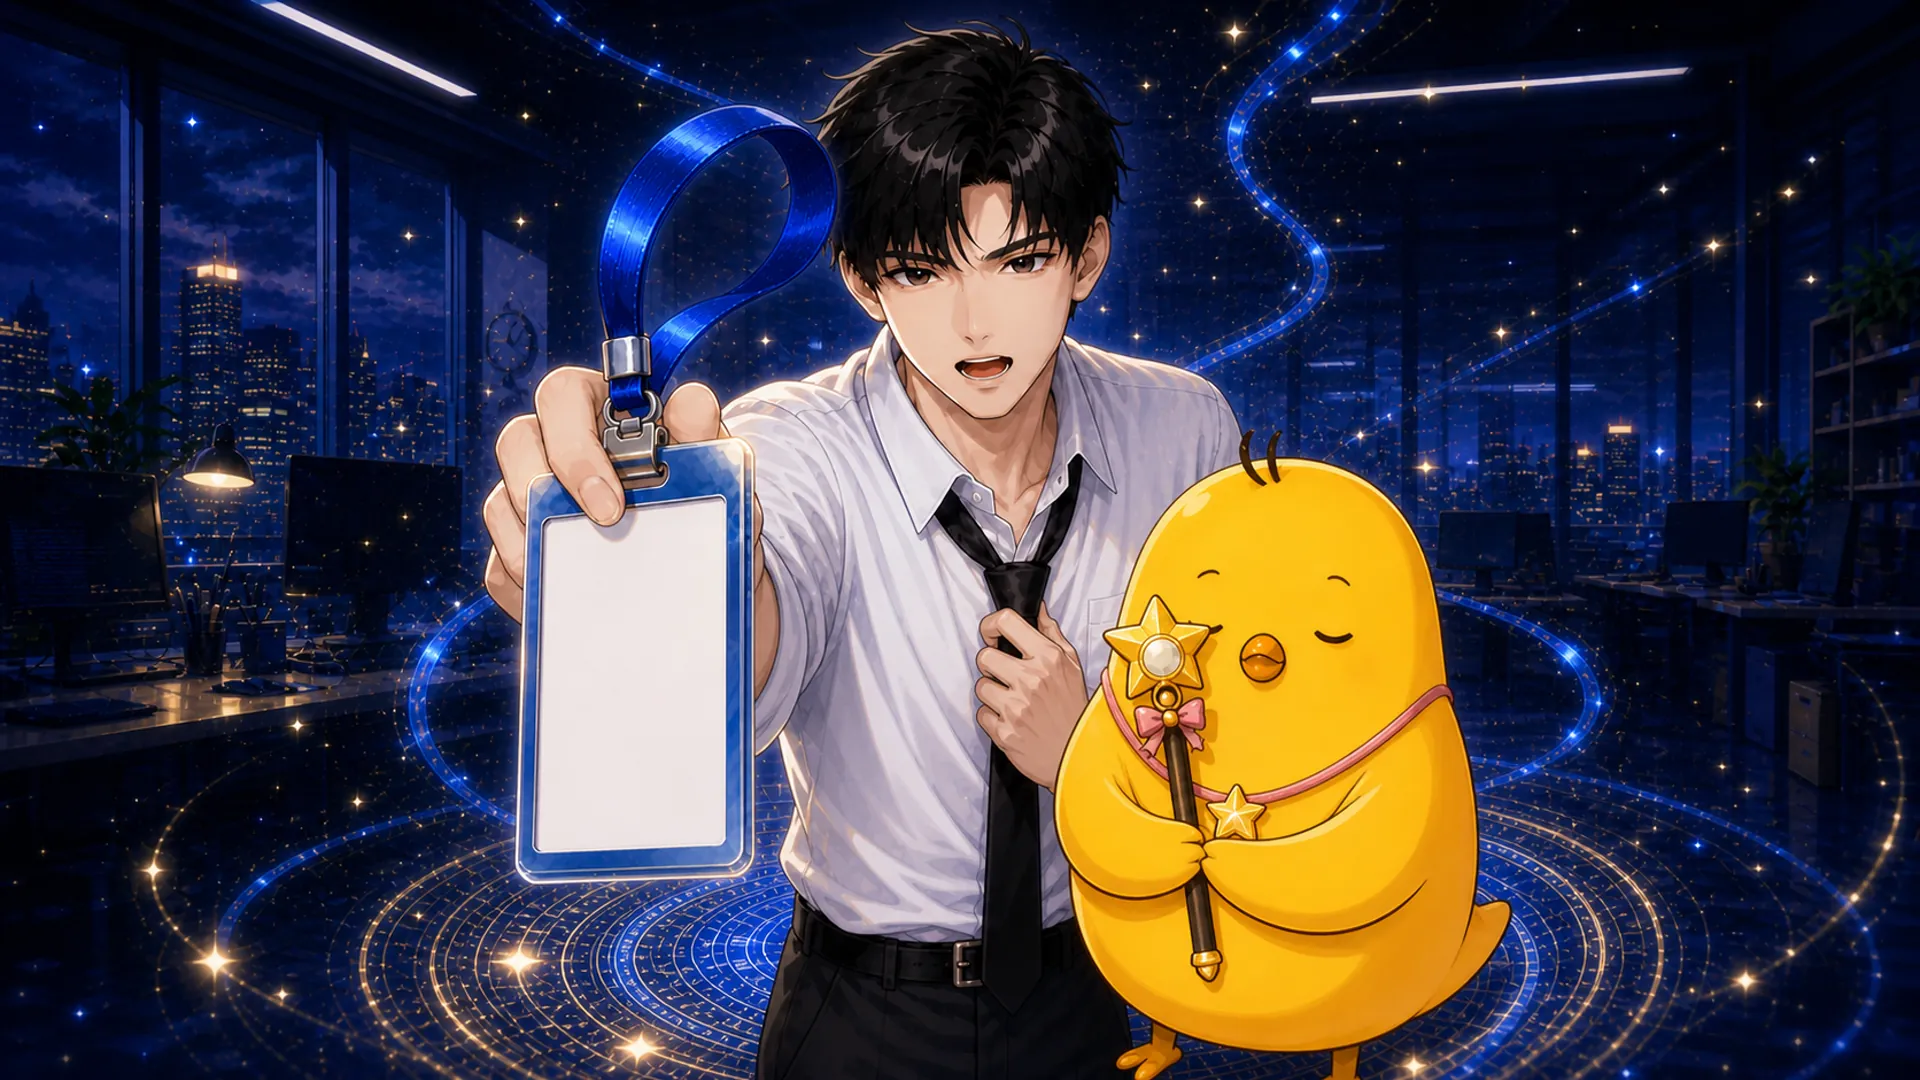
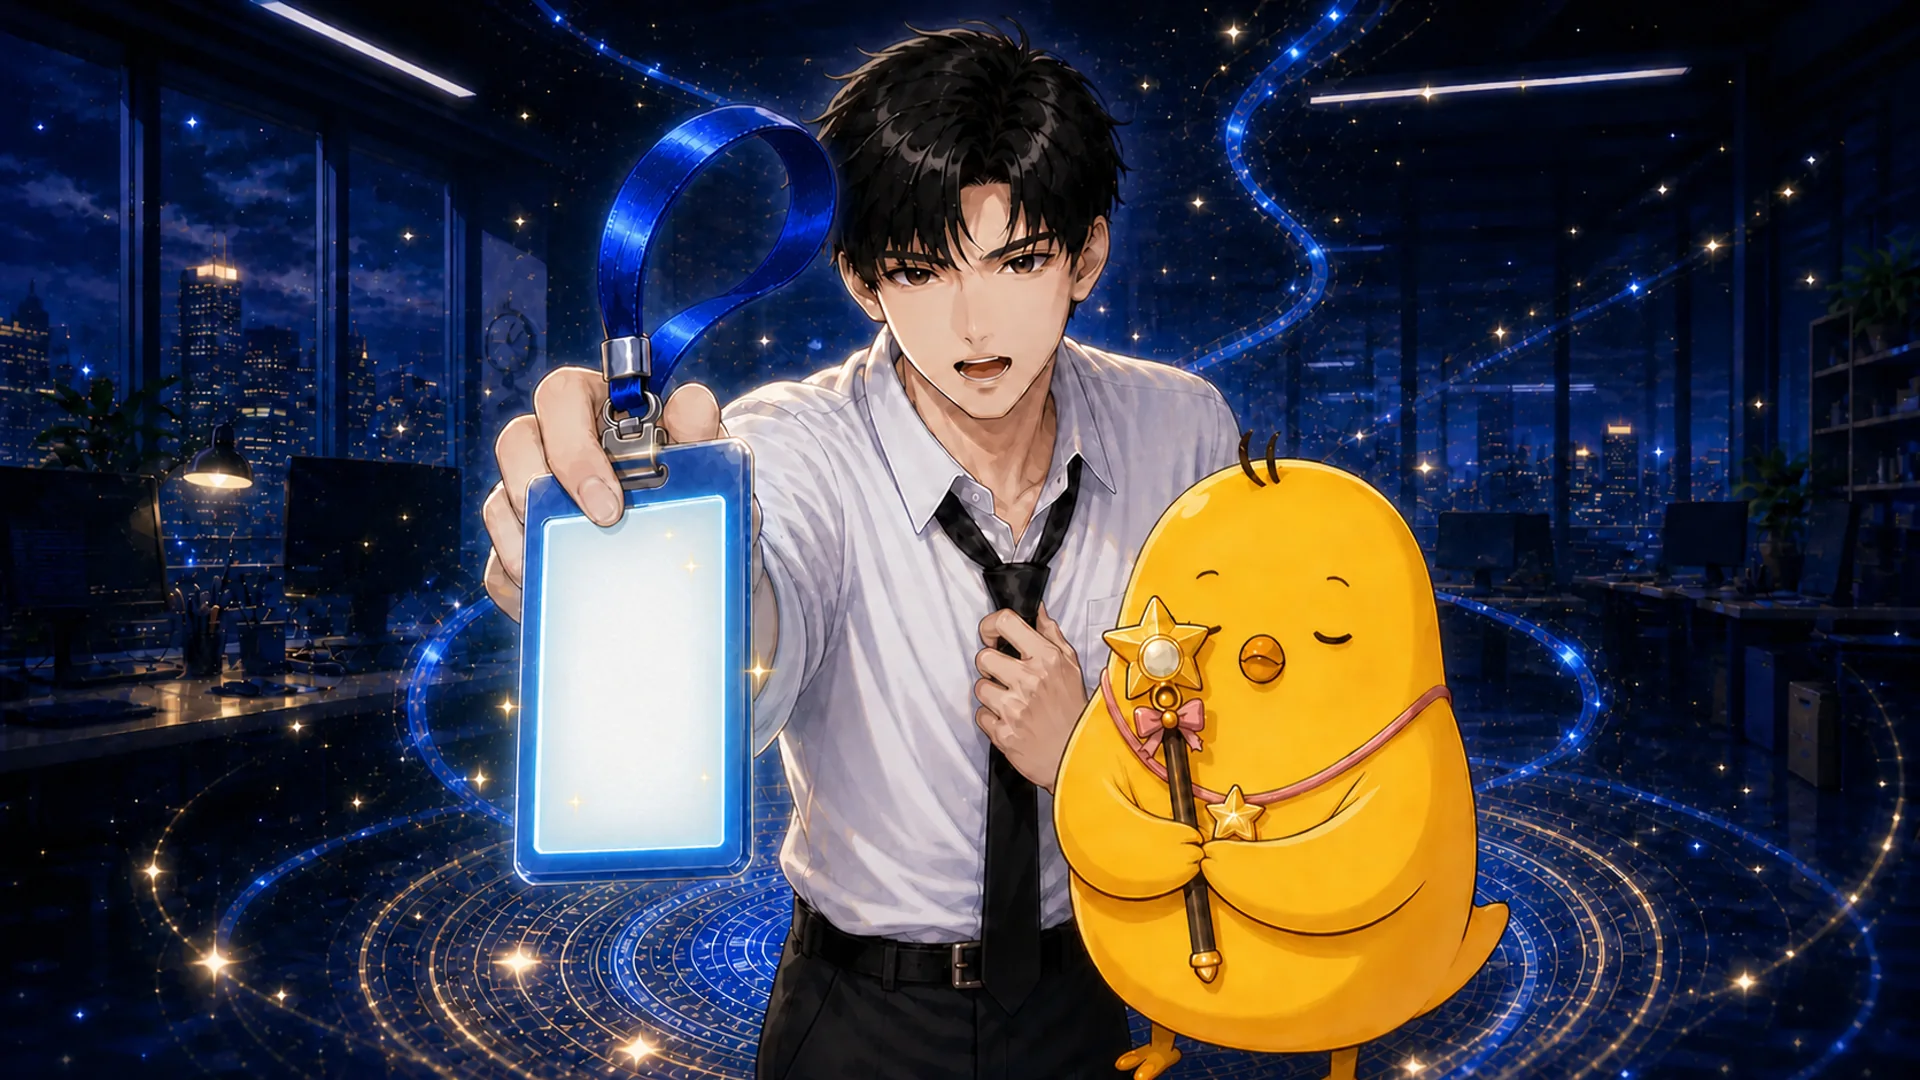
feat(assets): add transform cast badge glow

diff --git a/tests/m5Assets.test.ts b/tests/m5Assets.test.ts
@@ -75,8 +75,10 @@ const runtimeP0Cuts = [
   "cut_transform_02.webp",
 ] as const;
 
-const previousTransformCastSha256 =
[1 lines of base64/hex data omitted]
+const supersededTransformCastSha256s = [
[2 lines of base64/hex data omitted]
+] as const;
 
 const runtimeDiskPath = (assetPath: string): string =>
   resolve(process.cwd(), "assets", "runtime", assetPath.replace(/^assets\//, ""));
@@ -260,10 +262,14 @@ describe("M5 에셋 계약", () => {
       });
       expect(statSync(runtimePath).size, filename).toBeLessThanOrEqual(700 * 1024);
       if (filename === "cut_transform_01.webp") {
+        const transformCastSha256 = createHash("sha256")
+          .update(runtimeFile)
+          .digest("hex")
+          .toUpperCase();
         expect(
-          createHash("sha256").update(runtimeFile).digest("hex").toUpperCase(),
-          "transform.cast must use the approved pose revision",
-        ).not.toBe(previousTransformCastSha256);
+          supersededTransformCastSha256s,
+          "transform.cast must use the approved A2 badge glow revision",
+        ).not.toContain(transformCastSha256);
       }
     }
   });
